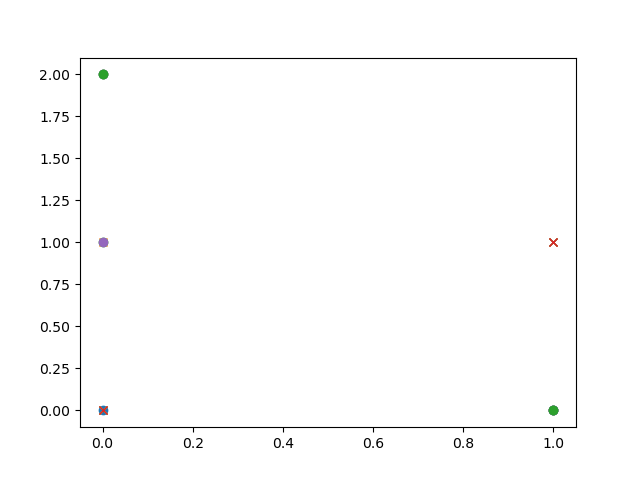
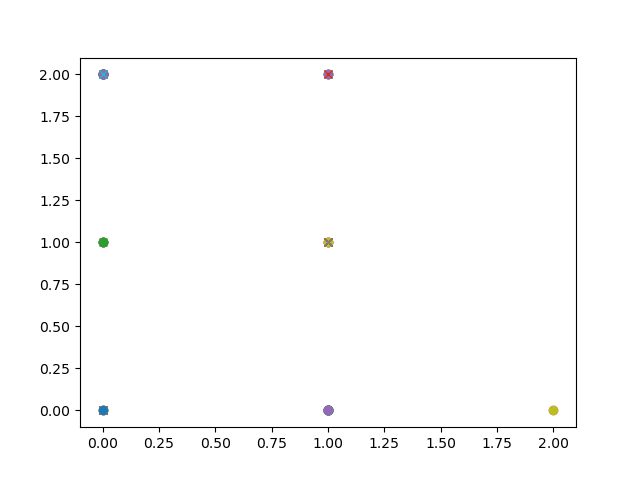
fix robot plots x,y

diff --git a/robot_plotter.py b/robot_plotter.py
@@ -27,6 +27,6 @@ def plot_robot(policy, upMDP):
         r_pos = (robot-n*(robot//n), robot//n)
         j_pos = (jan-n*(jan//n), jan//n)
 
-        plt.plot(r_pos, 'o')
-        plt.plot(j_pos, 'x')
+        plt.plot(r_pos[0],r_pos[1], 'o')
+        plt.plot(j_pos[0],j_pos[1], 'x')
         plt.savefig("robot_plots/{}.png".format(i))
